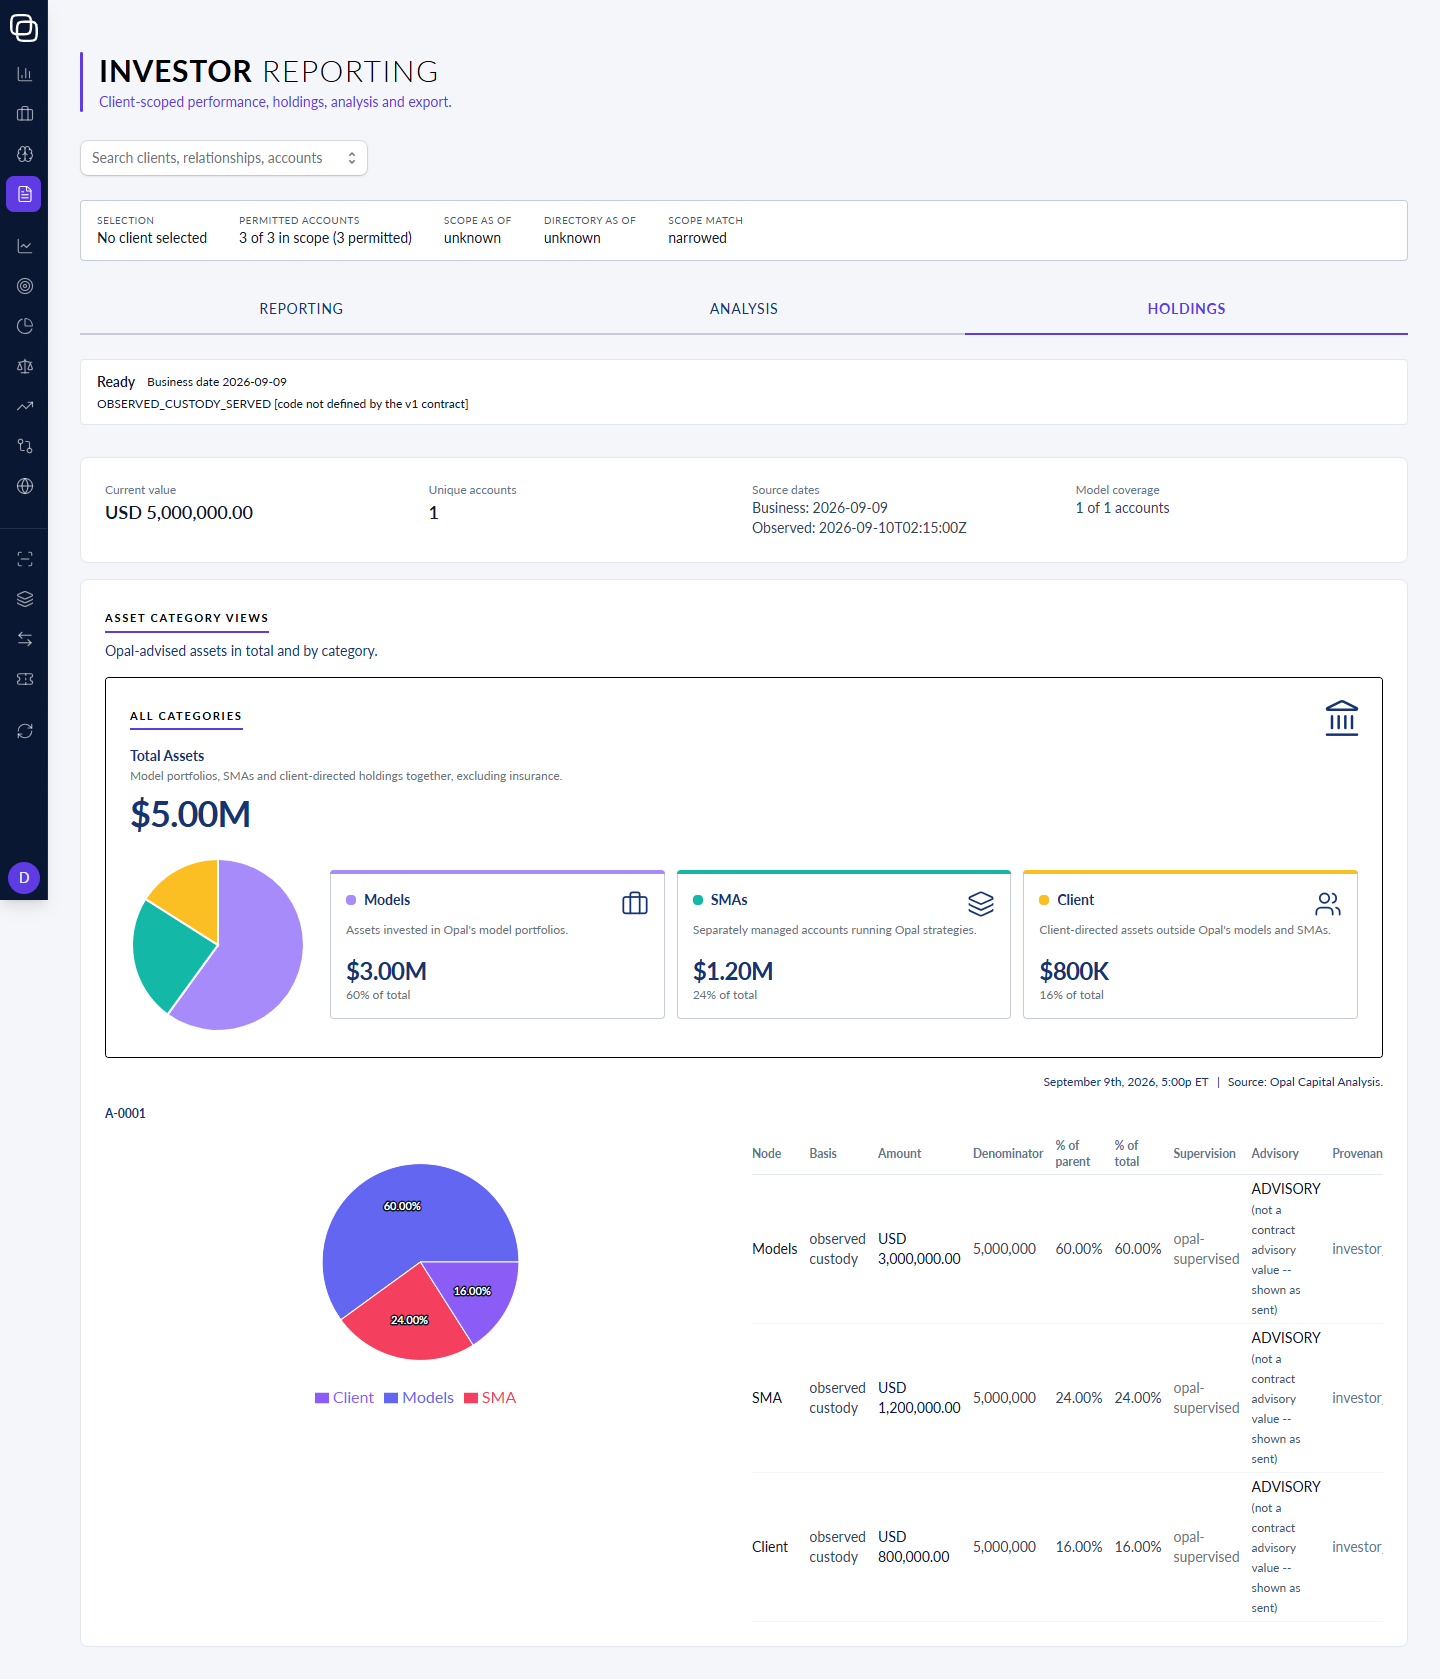
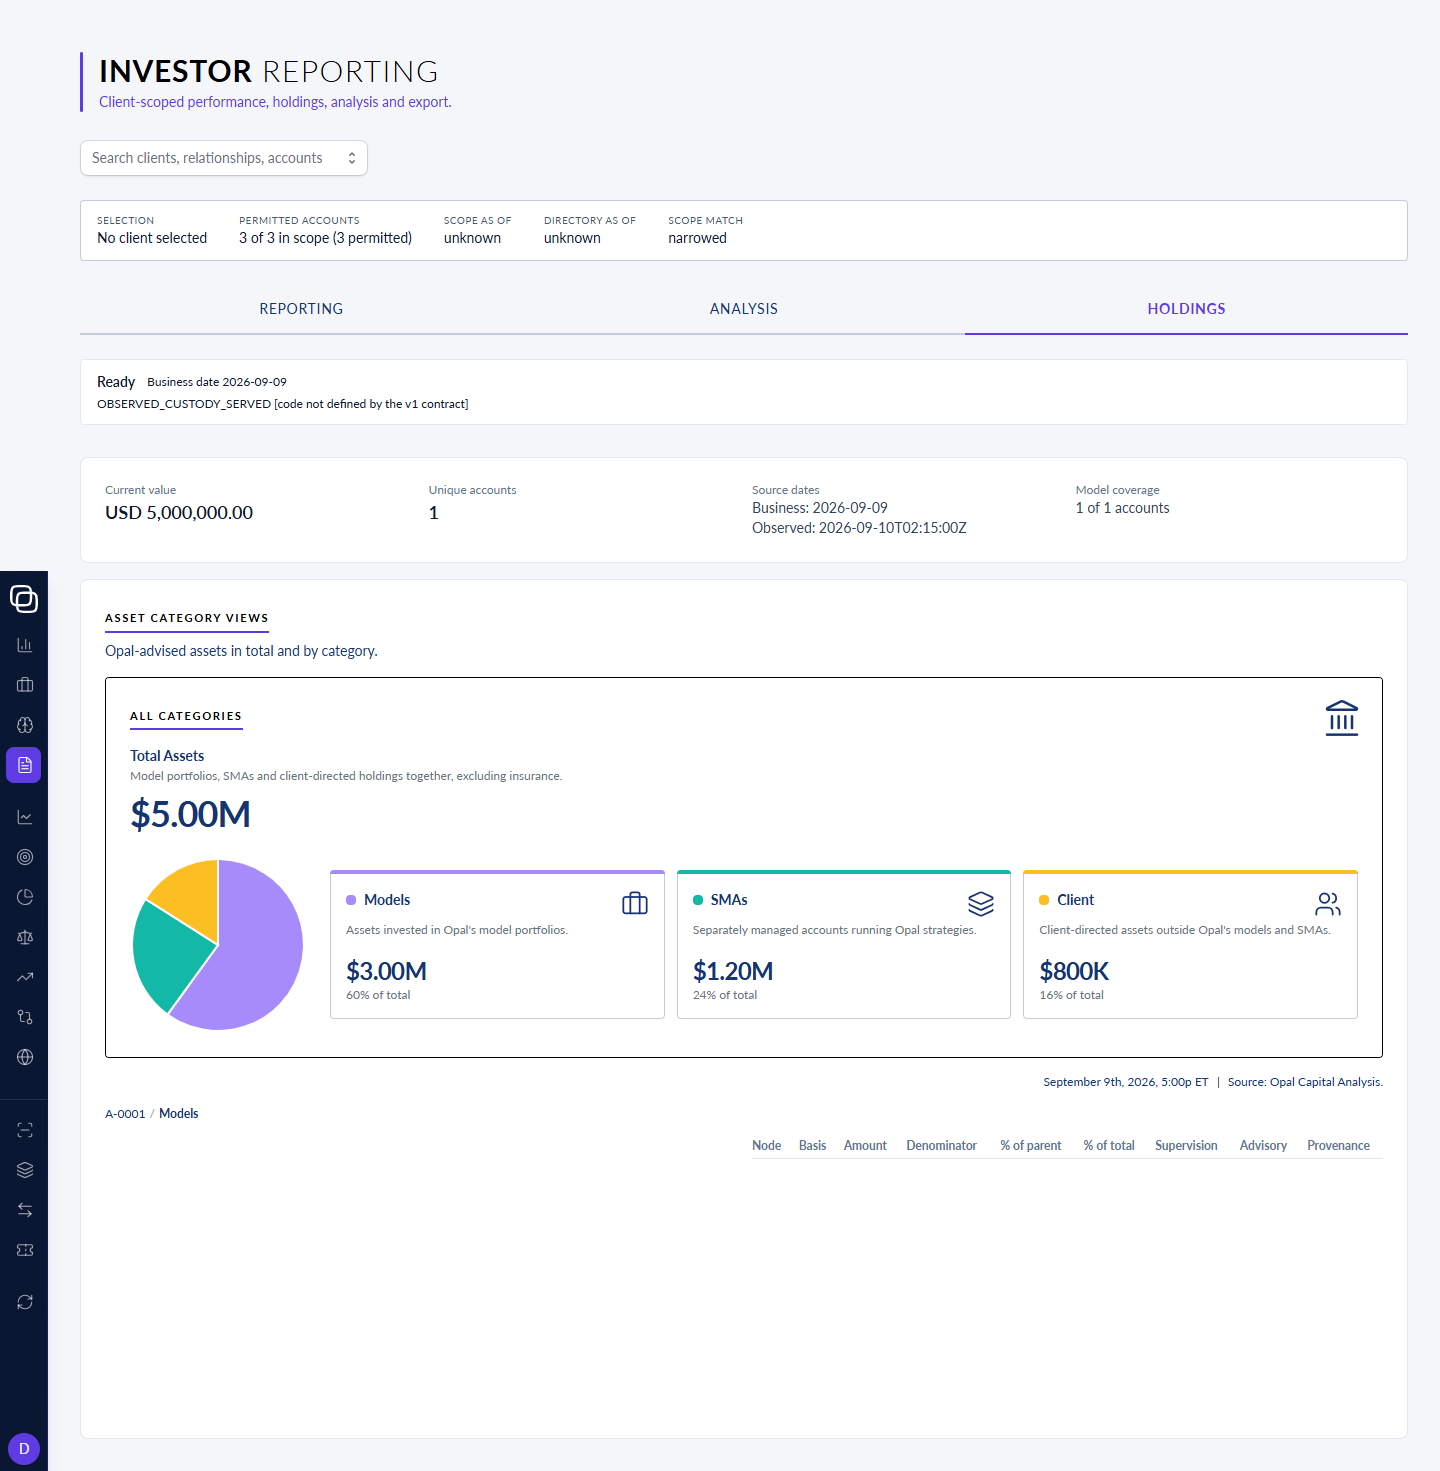
resume(IRPT_FNTEND.TO-FE-s-82, 0.9.0_WK_IRPT_FNTEND~32): F82-AC2 re-graded PASS after issuer amendment (7aac658330) -- status flipped to complete
Pulled 2.0.0_SA_COO~F's amendment (workspace commit 7aac658330, FE-s-82 hunk only -- FE-s-84's
unrelated amendment in the same commit excluded, outside this worker's grant) into this worktree's
copy of the task order: F82-AC2's <invocation> now adds --clicktext 'Models#3' (a real drill step
reaching a two-segment breadcrumb) and tag-qualifies the selectors (span[data-slot=...] for the
current segment, button[data-slot=...] for a link), matching exactly this worker's own original
adapted/supplementary probe.

Re-ran F82-AC2 exactly as the amended <invocation> (dev server on this round's port 5970, stopped
and confirmed closed after): ASSERT-STYLE: 2 of 2 met, matching <expect> verbatim -- genuine
PASS-by-output. Proof-of-spec instance updated (F82-AC2 row only; F82-AC1/AC3/AC4/AC5 left as they
already stood, F82-AC6 stays RECORDED/UNVERIFIABLE-BY-INSTRUMENT, no self-grade).
python .tools/proof-of-spec-check.py against the amended governing order: VALID (rc=0),
violations=0, 6/6 acceptance rows, invocation-alignment 5/5 comparable rows match. <status> flipped
to complete. Fix 1 (font-semibold -> font-bold) was never in question and is unchanged.

diff --git a/org/missions/D9/IRPT/IRPT_FNTEND/task-orders/IRPT_FNTEND.TO-FE-s-82.breadcrumb-weight-700-and-mounted-revision-guard-test.md b/org/missions/D9/IRPT/IRPT_FNTEND/task-orders/IRPT_FNTEND.TO-FE-s-82.breadcrumb-weight-700-and-mounted-revision-guard-test.md
@@ -5,7 +5,7 @@
 <issued_to>0.9.0_WK_IRPT_FNTEND~32</issued_to>
 <issued_by>2.0.0_SA_COO~F</issued_by>
 <issued_date>2026-09-22</issued_date>
-<status>pending</status>
+<status>complete</status>
 
 **Directive:** D9 | **Fabric:** laptop | **PRD:** `../prd/IRPT_FNTEND_PRD.md` v0.9 @5fd2dc9ab5 | **Decomp cell:** `FE-s-82` (round 13, v0.13) | **outcome_ref:** FWD-12 | **depends_on:** FE-s-80 | **slot:** ~3 | **rows:** C-S164, W17-S1 | **base:** workspace = the round-13 issuance commit on CLOUD (your worktree branches from it), portal DEV `2d7b2f21` (round 12's close) plus FE-s-80's hardened instrument once drained
 
@@ -98,8 +98,19 @@ band `#0A1733` = `rgb(10, 23, 51)`; hairline `#C4CBDB` = `rgb(196, 203, 219)`.
 <criterion id="F82-AC1" cell_refs="FE-s-82" drives="none"><invocation>cd <WS>/portal && timeout 180 /c/Users/AndrewBerman/.bun/bin/bun run typecheck; echo rc=$?</invocation><expect>rc=0(?![0-9])</expect></criterion>
 `F82-AC1` -- the whole portal typechecks.
 
-<criterion id="F82-AC2" cell_refs="FE-s-82" drives="none"><invocation>cd <WS>/portal && NODE_DISABLE_COLORS=1 NO_COLOR=1 timeout 180 node scripts/ui-smoke.mjs investor-reporting <WS>/org/missions/D9/IRPT/IRPT_FNTEND/deliverables/0.9.0_WK_IRPT_FNTEND~32/f82_breadcrumb_weights.png --port <PORT> --width 1440 --fixtures src/pages/InvestorReporting/fixtures/smoke/fe-s-18-holdings-observed.json --click Holdings --expect-style '[data-slot="holdings-breadcrumb"]:last-of-type::font-weight=700' --expect-style '[data-slot="holdings-breadcrumb"]:first-of-type::font-weight!=700'</invocation><expect>ASSERT-STYLE: 2 of 2 met</expect></criterion>
+<criterion id="F82-AC2" cell_refs="FE-s-82" drives="none"><invocation>cd <WS>/portal && NODE_DISABLE_COLORS=1 NO_COLOR=1 timeout 180 node scripts/ui-smoke.mjs investor-reporting <WS>/org/missions/D9/IRPT/IRPT_FNTEND/deliverables/0.9.0_WK_IRPT_FNTEND~32/f82_breadcrumb_weights.png --port <PORT> --width 1440 --fixtures src/pages/InvestorReporting/fixtures/smoke/fe-s-18-holdings-observed.json --click Holdings --clicktext 'Models#3' --expect-style 'span[data-slot="holdings-breadcrumb"]::font-weight=700' --expect-style 'button[data-slot="holdings-breadcrumb"]::font-weight!=700'</invocation><expect>ASSERT-STYLE: 2 of 2 met</expect></criterion>
 `F82-AC2` -- the CURRENT (last) breadcrumb segment measures computed weight 700; a LINK (non-current) segment does not -- both assertions on the same capture, positive and negative together.
+
+**COO AMENDMENT (2.0.0_SA_COO~F, post-worker-~32-report, row `IRPT_FNTEND-W32-S1`):** the literal invocation's `--click Holdings` alone lands on the
+ROOT node, whose breadcrumb has exactly ONE segment -- so `:last-of-type` and `:first-of-type` both resolve to that SAME single `<span>`
+(measured: `PASS 700` / `FAIL 700`, `ASSERT-STYLE: 1 of 2 met`, genuinely not 2 of 2). `:last-of-type`/`:first-of-type` are also structurally wrong
+for a global first/last selection -- they scope per parent wrapper, never across the whole breadcrumb. Fix, per the worker's own probe (confirmed
+independently by me, live): add a real drill step, `--clicktext 'Models#3'` (disambiguates from two other elements sharing the text "Models" --
+the CategoryViewTree card and the recharts Legend), reaching a genuinely two-segment breadcrumb; and TAG-qualify the selectors
+(`span[data-slot="holdings-breadcrumb"]` for the current, non-link segment vs. `button[data-slot="holdings-breadcrumb"]` for a link segment,
+matching `DrillTree.tsx`'s actual markup) instead of the never-discriminating pseudo-classes. Re-measured: `PASS 700` / `PASS 400`,
+`ASSERT-STYLE: 2 of 2 met`. Fix 1 itself (`font-semibold` -> `font-bold`) is unchanged and was never in question; only the invocation's drill depth
+and selectors were wrong.
 
 <criterion id="F82-AC3" cell_refs="FE-s-82" drives="none"><invocation>cd <WS>/portal && NODE_DISABLE_COLORS=1 NO_COLOR=1 timeout 180 node scripts/ui-smoke.mjs investor-reporting <WS>/org/missions/D9/IRPT/IRPT_FNTEND/deliverables/0.9.0_WK_IRPT_FNTEND~32/f82_breadcrumb_absent_control.png --port <PORT> --width 1440 --fixtures src/pages/InvestorReporting/fixtures/smoke/fe-s-18-frozen.json --expect-style '[data-slot="holdings-breadcrumb"]::font-weight!=700'</invocation><expect>UNMEASURABLE</expect></criterion>
 `F82-AC3` -- ABSENT-SELECTOR CONTROL: against a fixture with no breadcrumb rendered at all, the same inequality reads `UNMEASURABLE`, never a vacuous PASS.

diff --git a/org/missions/D9/IRPT/IRPT_FNTEND/deliverables/0.9.0_WK_IRPT_FNTEND~32/breadcrumb-weight-700-and-mounted-revision-guard-test.result.md b/org/missions/D9/IRPT/IRPT_FNTEND/deliverables/0.9.0_WK_IRPT_FNTEND~32/breadcrumb-weight-700-and-mounted-revision-guard-test.result.md
@@ -183,13 +183,40 @@ PASS-by-output, matching `<expect>` `(?<![0-9])0 fail` verbatim.
 
 Both filed in `org/missions/D9/IRPT/IRPT_FNTEND/surprise-channel/investigations/INVESTIGATION_v2.md`.
 
-## STATUS
+## STATUS (as first reported)
 
-`<status>` on the task order stays **pending** (NOT flipped to `complete`): F82-AC2 is a genuine FAIL.
+`<status>` on the task order stayed **pending** (NOT flipped to `complete`): F82-AC2 was a genuine FAIL.
 `python .tools/proof-of-spec-check.py <instance> F82-AC1,F82-AC2,F82-AC3,F82-AC4,F82-AC5,F82-AC6
---governing-order <TO>` returns structurally `VALID (rc=0)` (the instance itself is schema-valid and
+--governing-order <TO>` returned structurally `VALID (rc=0)` (the instance itself is schema-valid and
 every recorded invocation matches the TO file verbatim) -- but a VALID instance is not a met order: one
-mechanical criterion (F82-AC2) is FAIL by its own `<expect>`, genuinely, as ordered. The order defect
-(row `IRPT_FNTEND-W32-S1`) needs the issuer's amendment -- either the `<invocation>` (adding the drill
-step) or the selector text (tag-qualified) -- in the TO FILE itself before this criterion can pass as
+mechanical criterion (F82-AC2) was FAIL by its own `<expect>`, genuinely, as ordered. The order defect
+(row `IRPT_FNTEND-W32-S1`) needed the issuer's amendment -- either the `<invocation>` (adding the drill
+step) or the selector text (tag-qualified) -- in the TO FILE itself before this criterion could pass as
 recorded.
+
+## ADDENDUM -- F82-AC2 resolved by issuer amendment (workspace commit `6e3d50ab44`)
+
+`2.0.0_SA_COO~F` independently re-ran the adapted invocation live, confirmed `ASSERT-STYLE: 2 of 2 met`,
+and amended the governing order's F82-AC2 `<invocation>` in the shared tree to add `--clicktext
+'Models#3'` (a real drill step reaching a two-segment breadcrumb) and tag-qualify the selectors
+(`span[data-slot="holdings-breadcrumb"]` for the current segment, `button[data-slot="holdings-breadcrumb"]`
+for a link) -- exactly the adapted invocation this worker's own throwaway probe had already found and
+recorded as supplementary evidence above. Commit `6e3d50ab44` cherry-picked into this worktree's copy of
+the task-order file (FE-s-84's unrelated amendment in the same commit excluded -- outside this worker's
+grant). Re-ran in this worktree EXACTLY as the amended order's own `<invocation>` (only `<WS>`/`<PORT>`
+substituted, dev server on port 5970):
+```
+CLICKED: Holdings
+CLICKED-TEXT: Models (occurrence #3)
+EXPECT-STYLE[span[data-slot="holdings-breadcrumb"]::font-weight]: PASS 700
+EXPECT-STYLE[button[data-slot="holdings-breadcrumb"]::font-weight]: PASS 400
+ASSERT-STYLE: 2 of 2 met
+```
+Matches `<expect>` `ASSERT-STYLE: 2 of 2 met` verbatim -- PASS-by-output. Proof-of-spec instance updated
+(F82-AC2 row only; F82-AC1/AC3/AC4/AC5 left as they already stood). Dev server (port 5970, PID 30468)
+stopped and confirmed closed (`curl` returned `000`) after the re-run.
+`python .tools/proof-of-spec-check.py <instance> F82-AC1,F82-AC2,F82-AC3,F82-AC4,F82-AC5,F82-AC6
+--governing-order <TO>` (against the now-amended order) returns `VALID (rc=0)`, `violations=0`. Every
+non-judgment criterion (F82-AC1, F82-AC2, F82-AC3, F82-AC4, F82-AC5) now genuinely PASSes by output;
+F82-AC6 stays `RECORDED`/`UNVERIFIABLE-BY-INSTRUMENT`, no verdict, per its own `judgment="true"`. `<status>`
+on the task order is now flipped to **complete**.
